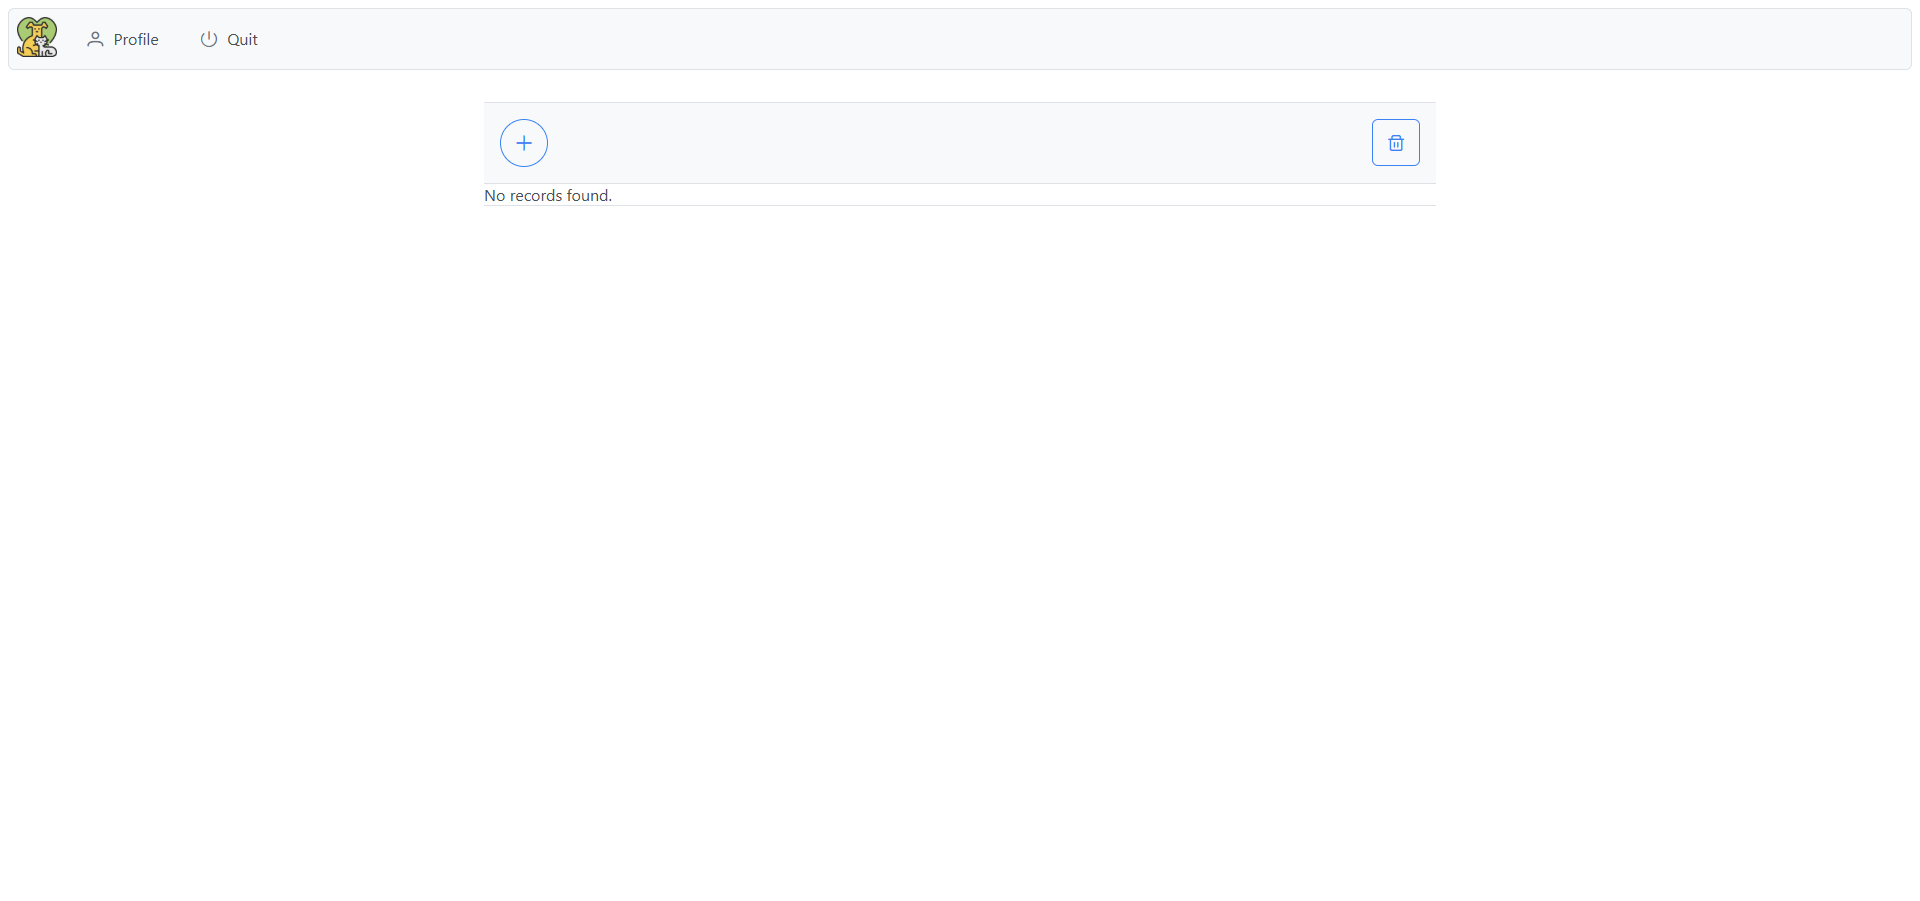
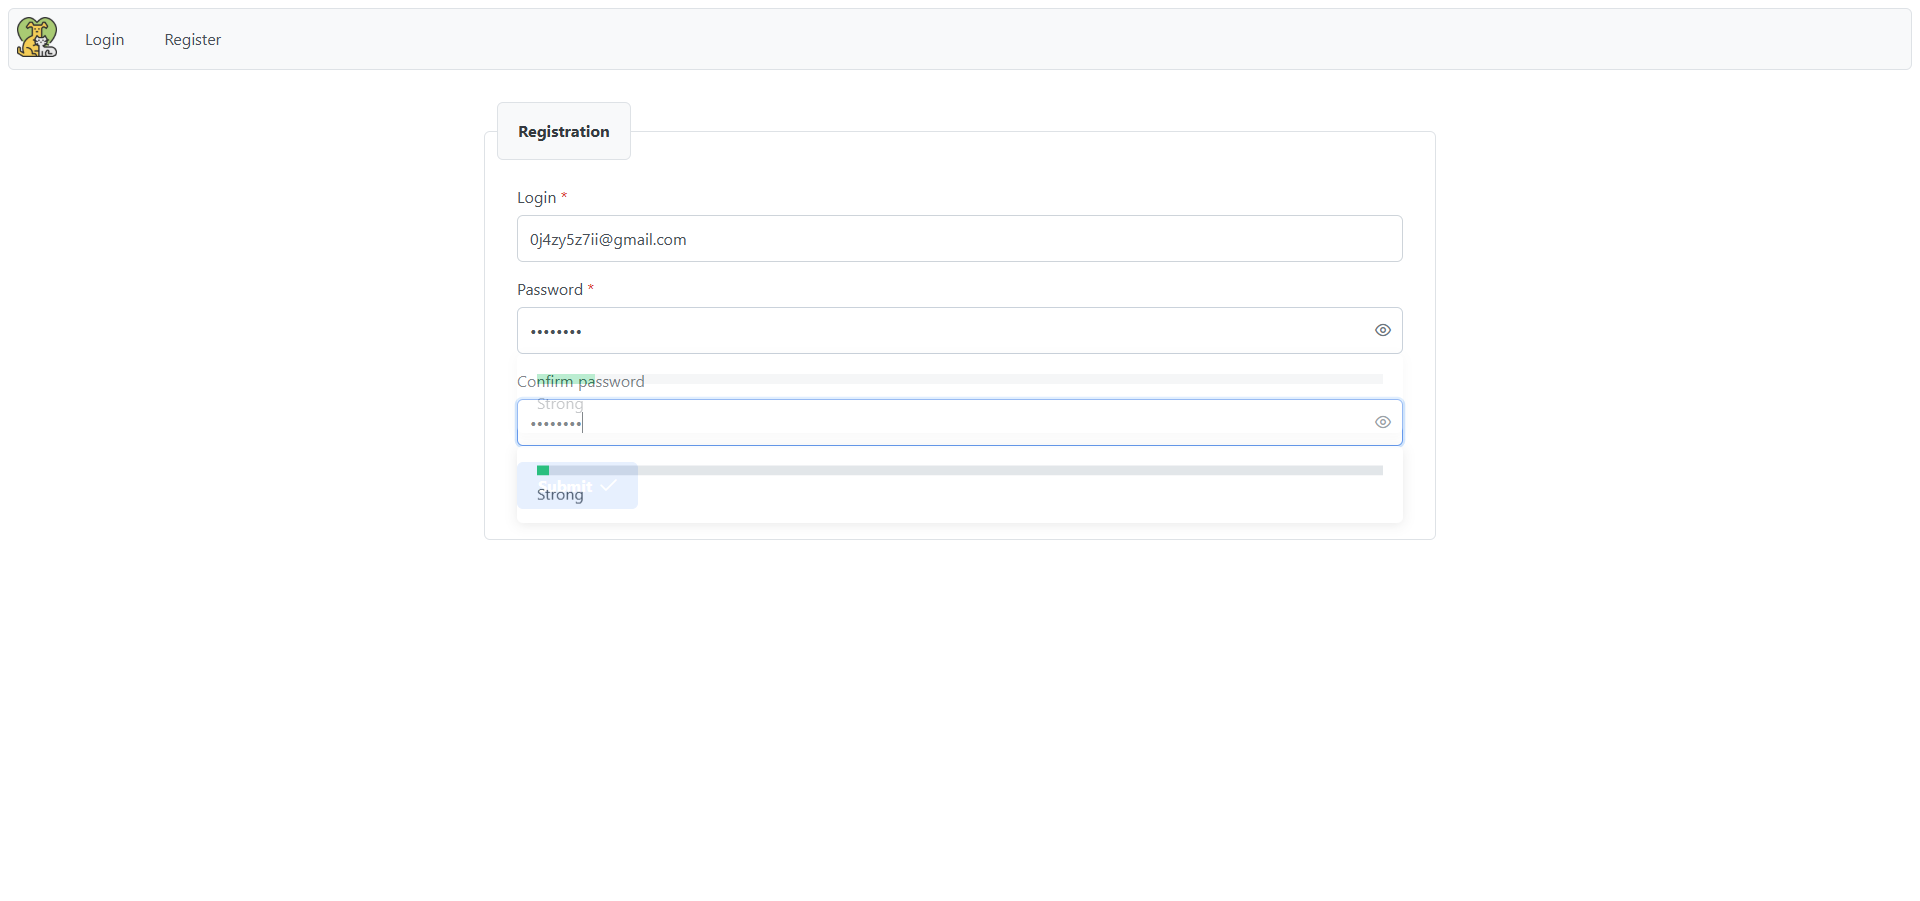
Explicit waits are added

diff --git a/pages/registration_page.py b/pages/registration_page.py
@@ -1,33 +1,44 @@
-import time
 from utils.generator import generate_random_email, generate_random_password
 from .base_page import BasePage
 from .locators import RegistrationPageLocators
+
+from selenium.webdriver.support.ui import WebDriverWait
+from selenium.webdriver.support import expected_conditions as EC
 
 
 class RegistrationPage(BasePage):
 
     def registration_user(self):
-        login_field = self.driver.find_element(*RegistrationPageLocators.LOGIN_FIELD)
+        wait = WebDriverWait(self.driver, 10)
 
+        # Email
+        email_field = wait.until(
+            EC.visibility_of_element_located(RegistrationPageLocators.LOGIN_FIELD)
+        )
         email = generate_random_email()
-        login_field.click()
-        login_field.send_keys(email)
-        time.sleep(5)
+        email_field.send_keys(email)
 
-        pass_field = self.driver.find_element(*RegistrationPageLocators.PASS_FIELD)
-        pass_field.submit()
-
+        # Password
+        pass_field = wait.until(
+            EC.visibility_of_element_located(RegistrationPageLocators.PASS_FIELD)
+        )
         password = generate_random_password()
         pass_field.send_keys(password)
-        time.sleep(5)
 
-        confirm_pass_field = self.driver.find_element(*RegistrationPageLocators.CONFIRM_PASS)
-        confirm_pass_field.submit()
+        # Confirm password
+        confirm_pass_field = wait.until(
+            EC.visibility_of_element_located(RegistrationPageLocators.CONFIRM_PASS)
+        )
         confirm_pass_field.send_keys(password)
-        time.sleep(5)
 
-        click_on_submit_btn = self.driver.find_element(*RegistrationPageLocators.SUBMIT_BTN_REGISTRATION)
-        click_on_submit_btn.submit()
-        time.sleep(5)
+        # Submit
+        wait.until(
+            EC.presence_of_element_located(
+                RegistrationPageLocators.SUBMIT_BTN_REGISTRATION
+            )
+        ).submit()
+
+        return email, password
+
 
 

diff --git a/pages/login_page.py b/pages/login_page.py
@@ -2,20 +2,35 @@ from .base_page import BasePage
 from .locators import LoginPageLocators
 from config import EMAIL, PASSWORD
 
+from selenium.webdriver.support.ui import WebDriverWait
+from selenium.webdriver.support import expected_conditions as EC
+
 
 class LoginPage(BasePage):
-    def enter_email(self):
-        login_email = self.driver.find_element(*LoginPageLocators.LOGIN_EMAIL)
-        login_email.send_keys(EMAIL)
+    def log_in_user(self):
+        wait = WebDriverWait(self.driver, 10)
 
-    def enter_pass(self):
-        login_password = self.driver.find_element(*LoginPageLocators.LOGIN_PASS)
-        login_password.send_keys(PASSWORD)
+        # Login
+        login_email = wait.until(
+            EC.visibility_of_element_located(LoginPageLocators.LOGIN_EMAIL)
+        )
+        login_email.send_keys()
 
-    def login_btn(self):
-        click_login_btn = self.driver.find_element(*LoginPageLocators.LOGIN_BTN)
+        # Password
+        login_password = wait.until(
+            EC.visibility_of_element_located(LoginPageLocators.LOGIN_PASS)
+        )
+        login_password.send_keys()
+
+        # Submit
+        click_login_btn = wait.until(
+            EC.presence_of_element_located(LoginPageLocators.LOGIN_BTN)
+        )
         click_login_btn.submit()
 
-    def find_profile(self):
-        profile = self.driver.find_element(*LoginPageLocators.PROFILE)
+        # User is logged in
+        profile = wait.until(
+            EC.visibility_of_element_located(LoginPageLocators.PROFILE)
+        )
+
         return profile

diff --git a/tests/test_login_page.py b/tests/test_login_page.py
@@ -1,9 +1,7 @@
 import allure
 import pytest
 from allure_commons.types import AttachmentType
-
 from pages.login_page import LoginPage
-import time
 
 
 @allure.feature('user_login')
@@ -14,13 +12,11 @@ def test_log_in(driver):
     link = "http://34.141.58.52:8080/#/login"
     page = LoginPage(driver, link)
     page.open()
-    page.enter_email()
-    page.enter_pass()
-    page.login_btn()
-    time.sleep(5)
+    page.log_in_user()
     with allure.step('Make screenshot'):
         allure.attach(driver.get_screenshot_as_png(), name='result_profile_p_opened',
                       attachment_type=AttachmentType.PNG)
     # driver.save_screenshot('result_submit.png')
-    profile = page.find_profile()
+    profile = page.log_in_user()
     assert profile
+

diff --git a/tests/test_registration_page.py b/tests/test_registration_page.py
@@ -11,6 +11,5 @@ def test_registration_user(driver):
     page = RegistrationPage(driver, link)
     page.open()
     page.registration_user()
-    time.sleep(5)
     driver.save_screenshot('result_registered_user.png')
 

diff --git a/tests/test_profile_page.py b/tests/test_profile_page.py
@@ -1,5 +1,7 @@
 import time
+
 import pytest
+
 from pages.profile_page import ProfilePage
 
 
